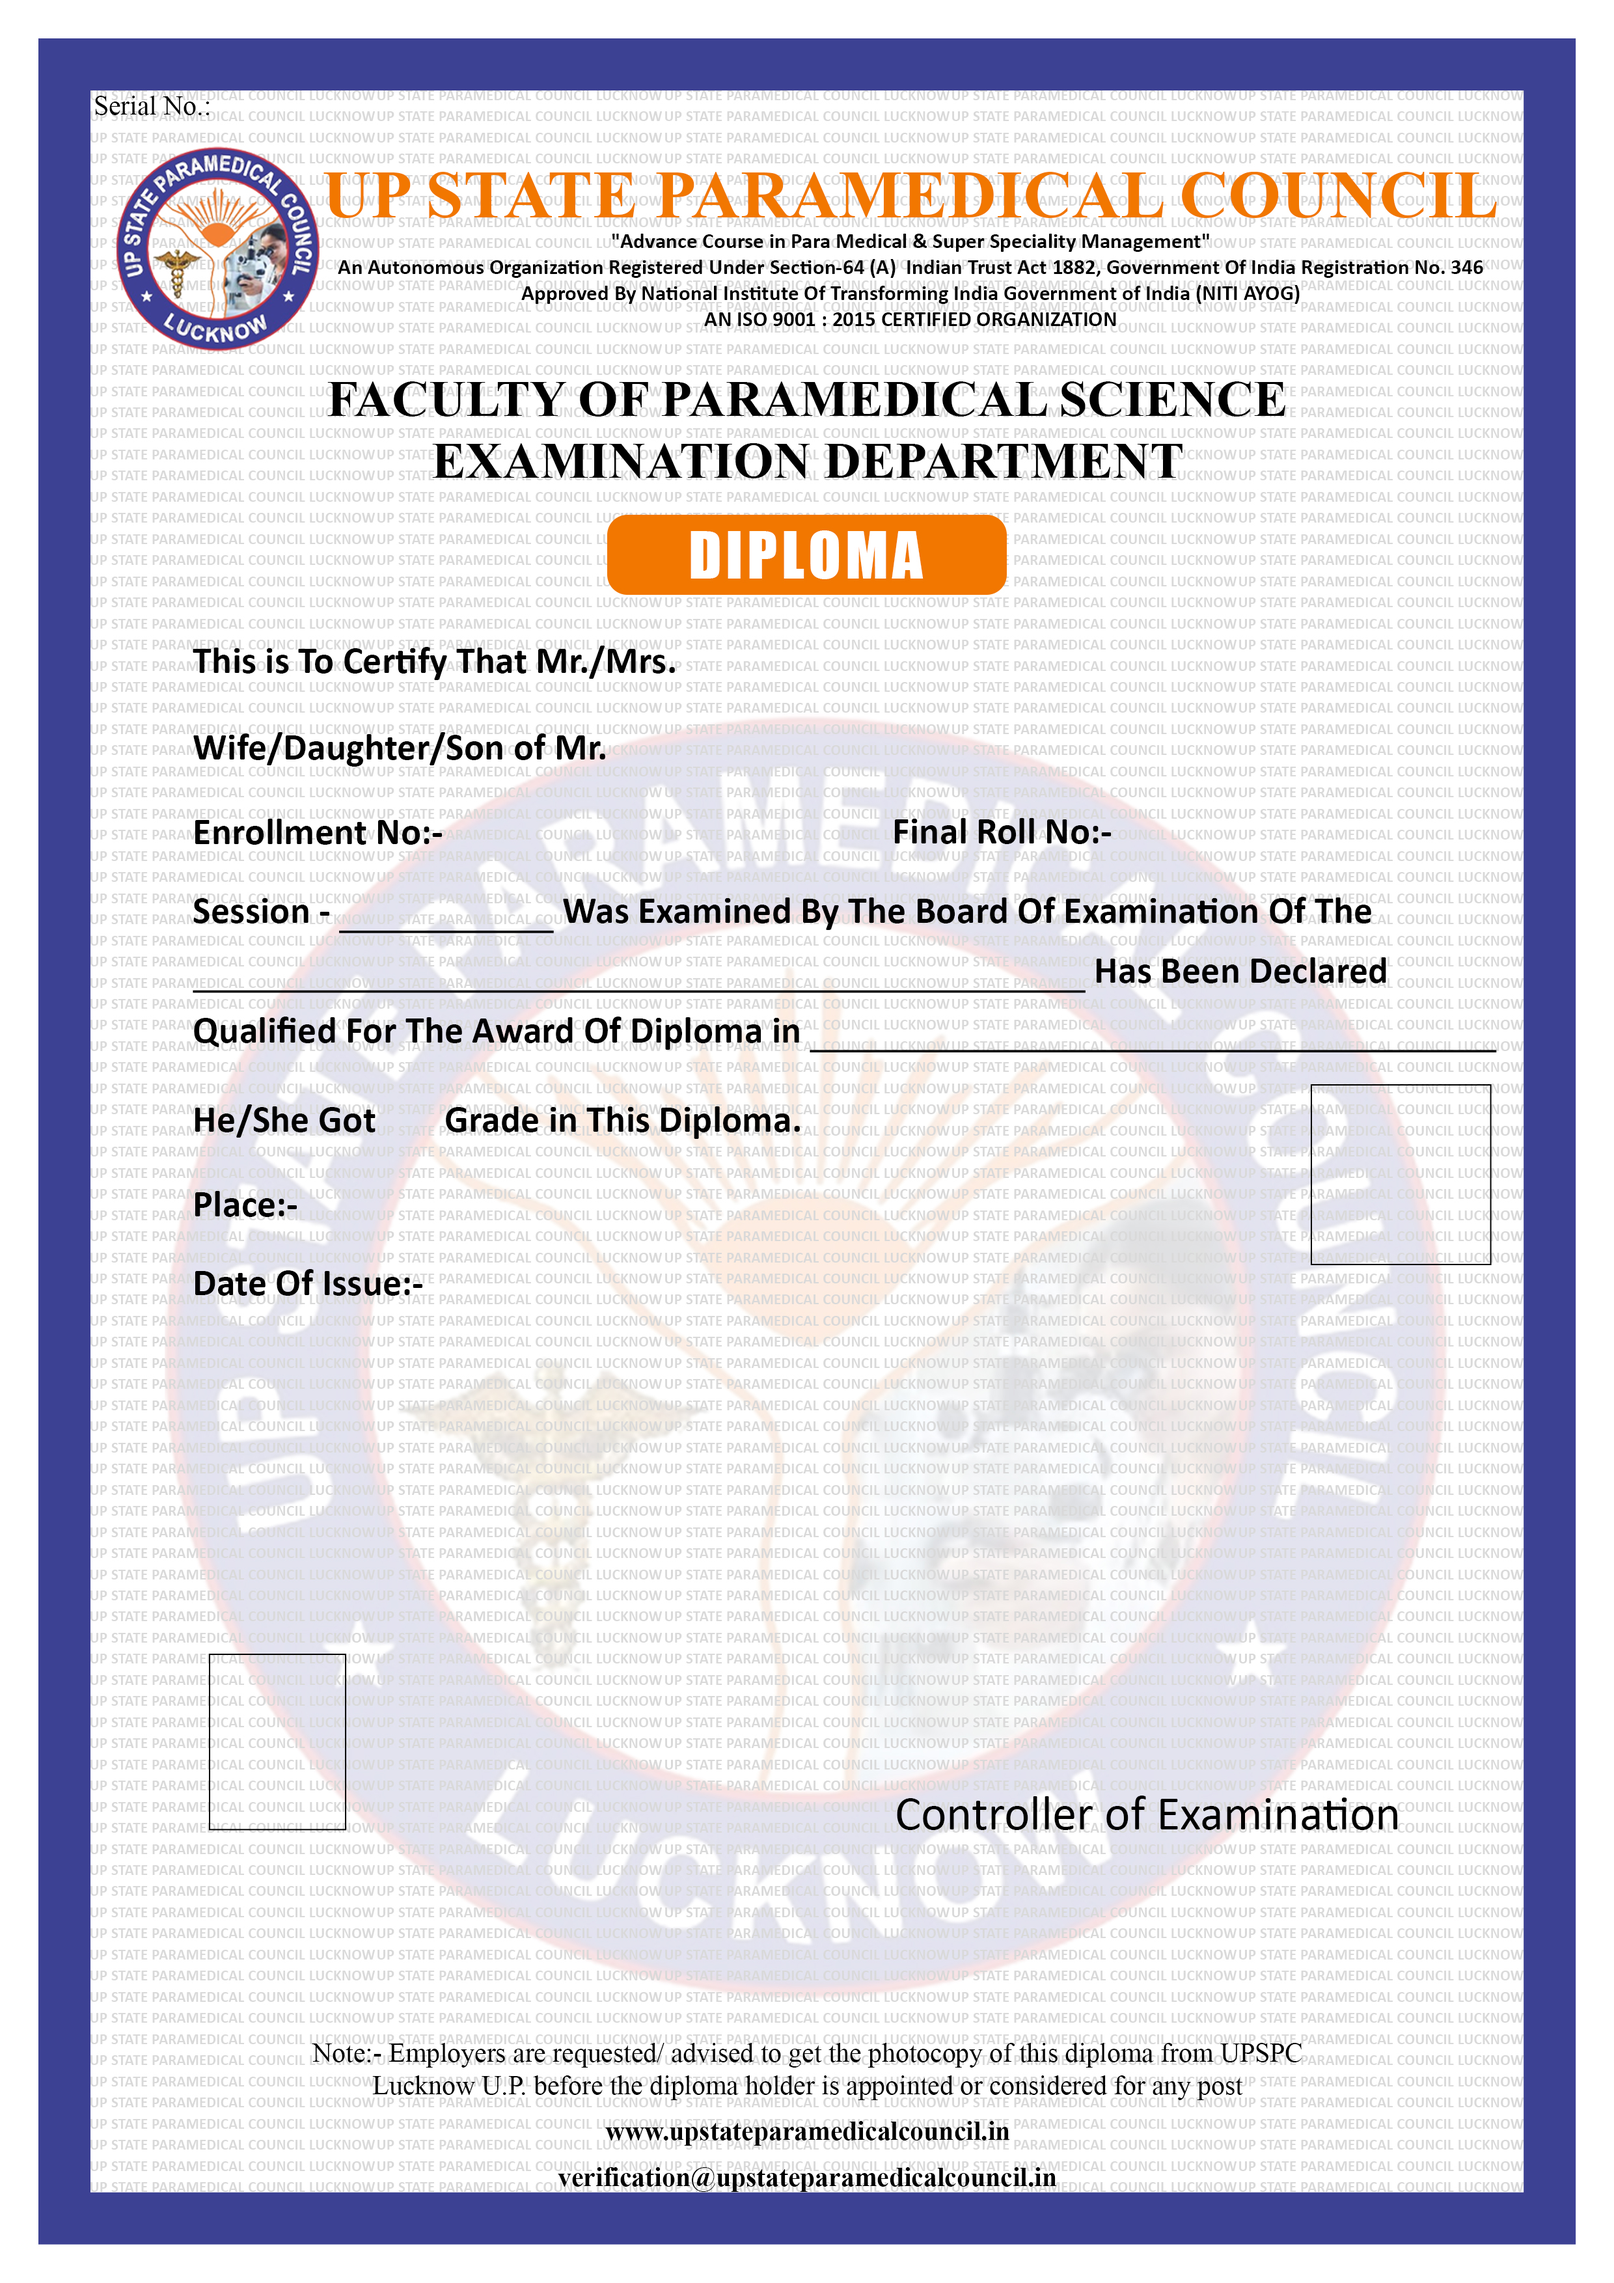
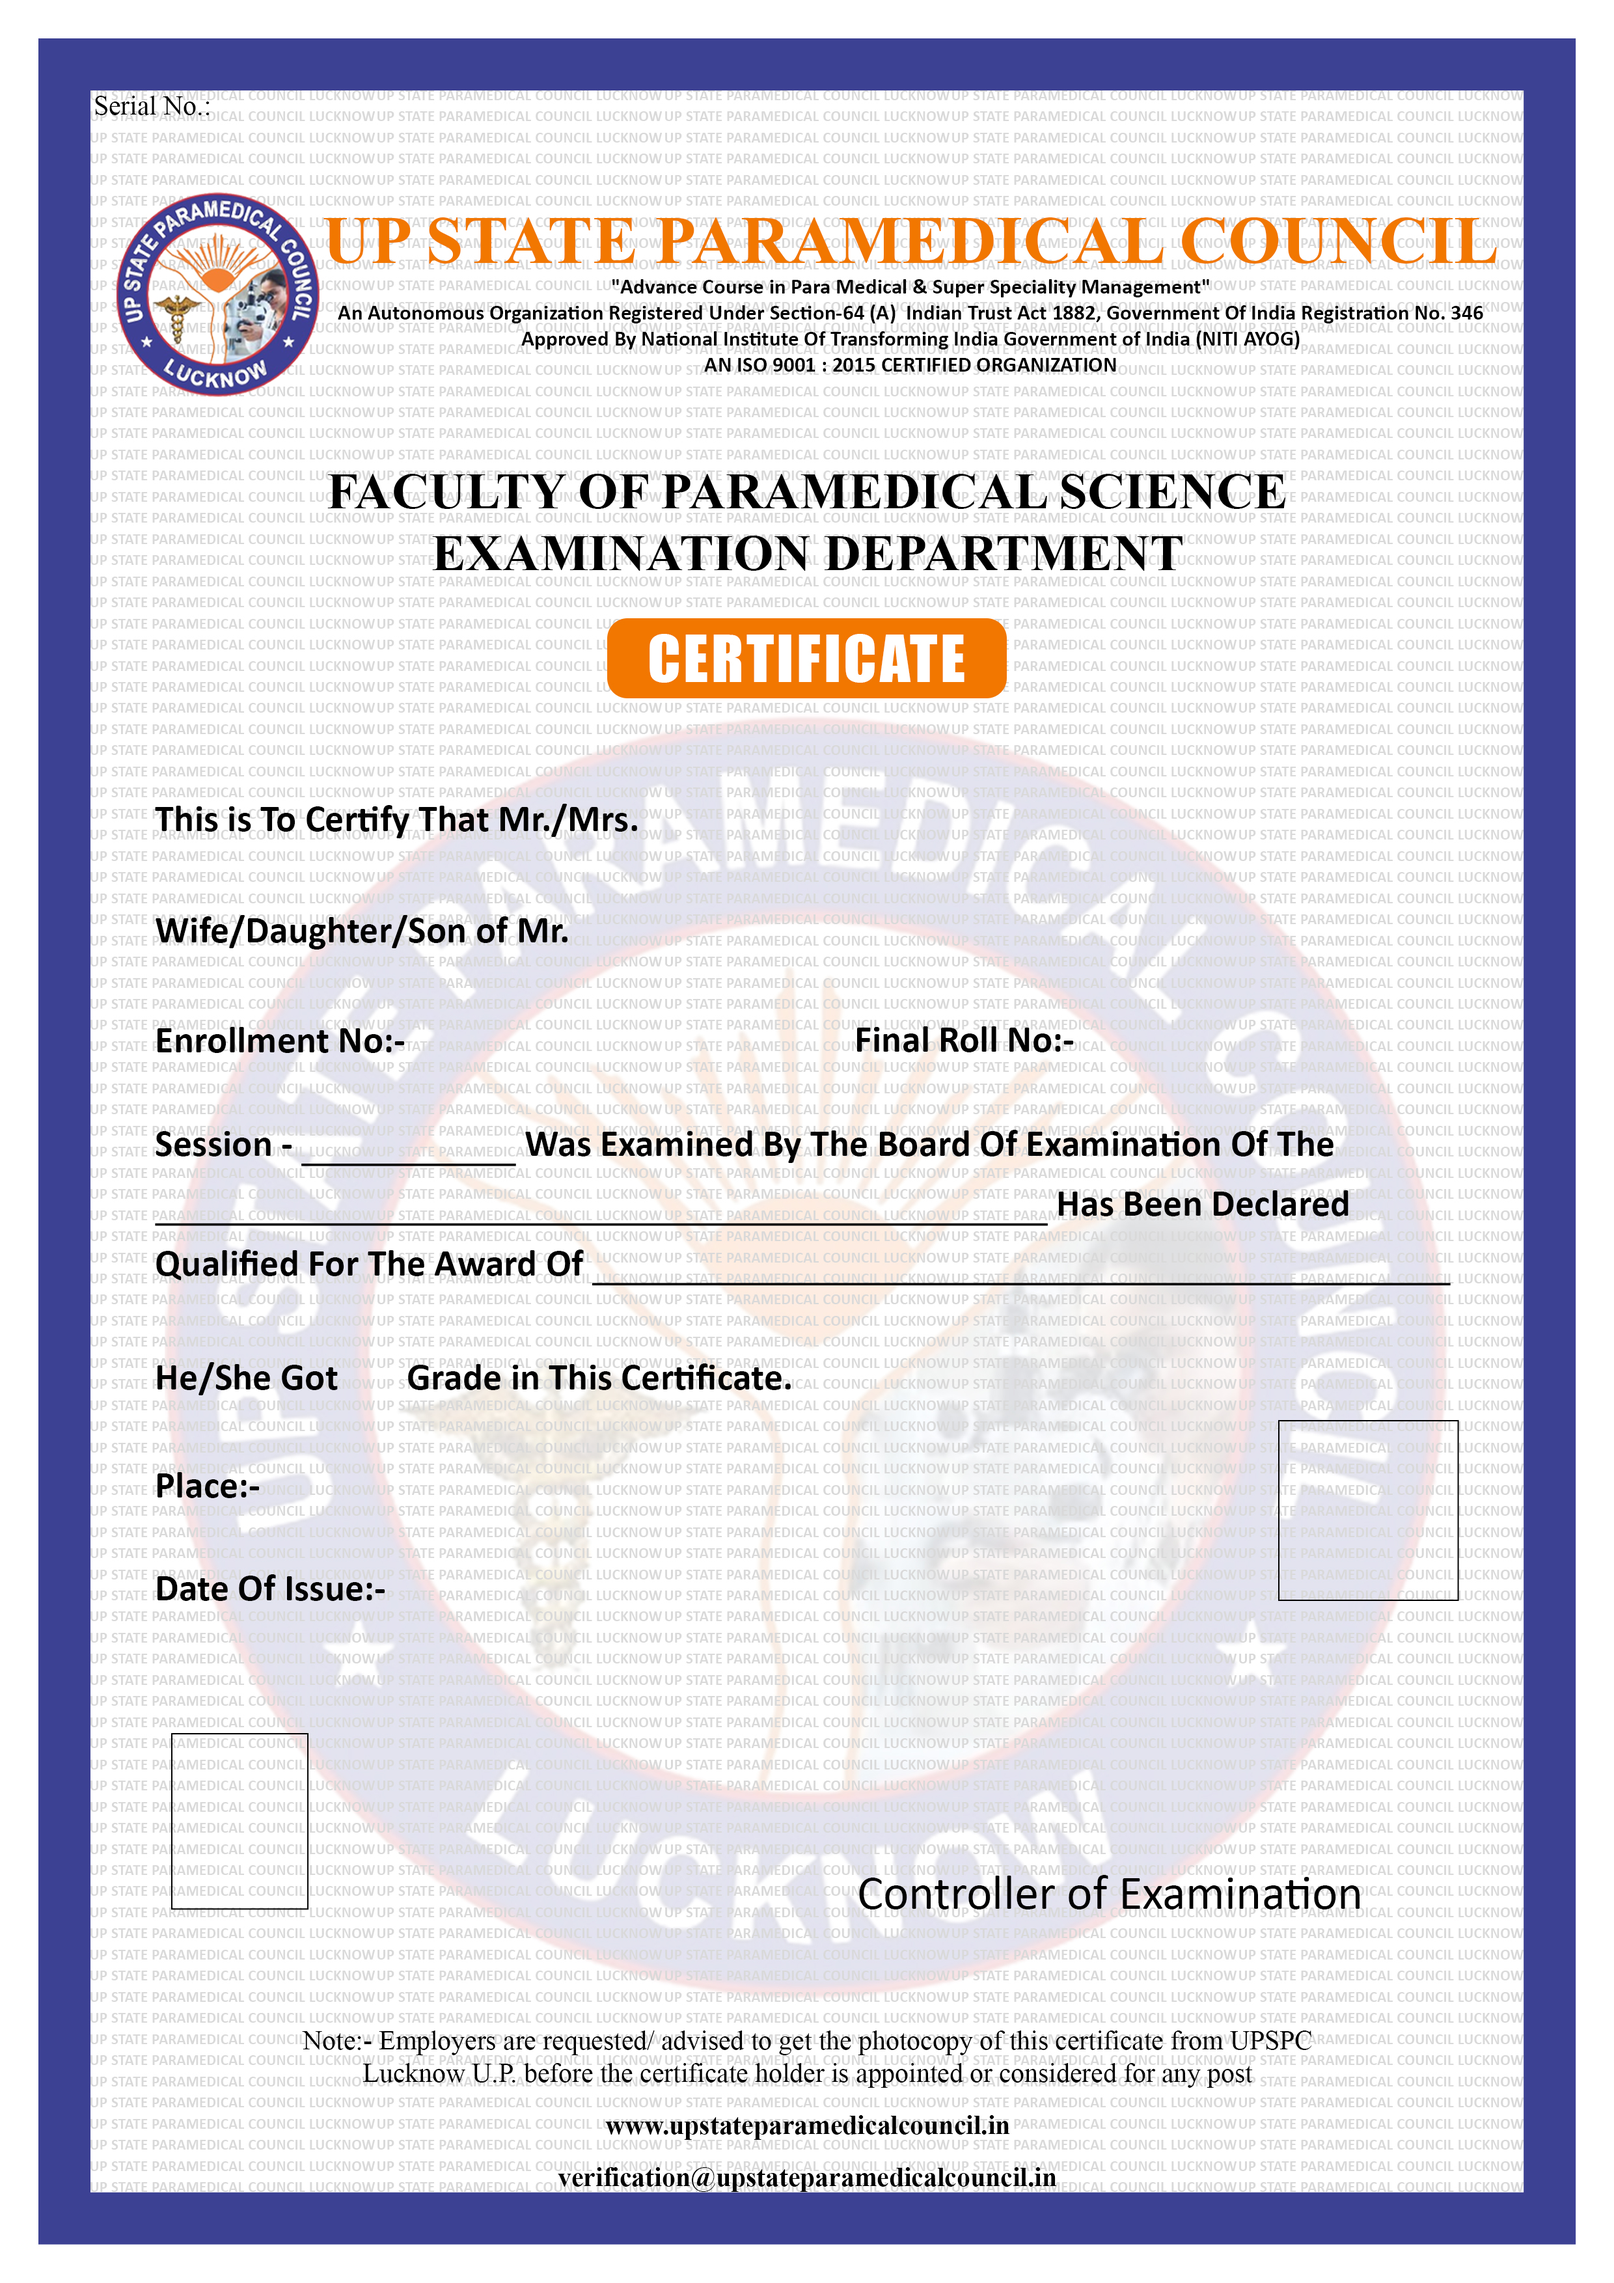
update

diff --git a/assets/formats/upstate/certificate.php b/assets/formats/upstate/certificate.php
@@ -38,18 +38,19 @@
 
         #photo {
             z-index: 999;
-            top: 72.35%;
-            left: 7.1rem;
+            top: 75.8%;
+            left: 10.75%;
         }
-        #photo1
-        {
-            top: 47%;
-            left: 80.5%;
+
+        #photo1 {
+            top: 61.7%;
+            left: 78.5%;
         }
-       
-        p{
+
+        p {
             font-weight: bold;
         }
+
         .middle-div {
             width: 60%;
             margin-left: 9rem;
@@ -57,61 +58,40 @@
             /* border:1px solid red; */
             font-weight: bold;
         }
-        .test{
-            border:1px solid red
+
+        .test {
+            border: 1px solid red
         }
-        .text-center{
-            text-align:center
+
+        .text-center {
+            text-align: center
         }
     </style>
 </head>
 
-<body class="position-relative">
-    <img id="back-image" class="position-relative" src="{document_path}/certificate.jpg">
+<body class="position-relative"><?php
+$certificate = ($duration_type == 'month' or ($duration_type == 'year' && $duration == 1)) ? 'certificate' : 'diploma';
+?>
+    <img id="back-image" class="position-relative" src="{document_path}/<?= $certificate ?>.jpg">
     <div class="position-absolute" id="photo">
-        <img src="upload/{image}" style="width: 64px;height: 83px;">
+        <img src="upload/{image}" style="width: 65px;height: 84px;">
     </div>
     <div class="position-absolute" id="photo1">
         <img src="upload/images/student_certificate_{certiticate_id}.png" style="width:96px;height:96px">
     </div>
-    <p class="position-absolute" style="top:34.2%;left:28%;width:210px">{roll_no}</p>
-    <p class="position-absolute " style="top:34%;left:70%;width:300px">{enrollment_no}</p>
+    <p class="position-absolute" style="top:43.2%;left:28%;width:210px">{roll_no}</p>
+    <p class="position-absolute " style="top:43.2%;left:70%;width:300px">{enrollment_no} 23</p>
     <p class="position-absolute" style="top:2.5%;font-size:12px;left:110px">{serial_no}</p>
-    <div class="position-absolute" style="top:28%;left:44%">{student_name}</div>
-    <div class="position-absolute" style="top:32%;left:40%">{father_name}</div>
-    <!-- <div class="position-absolute" style="top:49%;left:26%">{mother_name}</div> -->
-    <!-- <div class="position-absolute" style="top:49%;left:74%">{dob}</div> -->
-    <div class="position-absolute" style="top:44.2%;left:50%;width:350px">{course_name}</div>
-    <!-- <div class="position-absolute" style="top:54.85%;left:28%">{duration} {duration_type}</div> -->
-    <!-- <div class="position-absolute" style="top:54.85%;left:50%">{from_date}</div> -->
-    <!-- <div class="position-absolute" style="top:54.85%;left:70%">{to_date}</div> -->
-    <!-- <div class="position-absolute" style="top:57.85%;left:75%">{exam_conduct_date}</div> -->
+    <div class="position-absolute" style="top:35%;left:44%">{student_name}</div>
+    <div class="position-absolute" style="top:40%;left:40%">{father_name}</div>
+    <div class="position-absolute text-center" style="top:54%;left:37%;width:450px">{course_name}</div>
 
-    <div class="position-absolute text-center" style="top:41.5%;left:12%;width:440px">{center_name}</div>
+    <div class="position-absolute text-center " style="top:51.5%;left:9%;width:440px">{center_name}</div>
+    <div class="position-absolute" style="top:59.5%;left:22%;width:60px">{grade}</div>
 
-    <!-- <div class="position-absolute" style="top:63.83%;left:54%;width:100%">{obtain_total}</div> -->
-    <div class="position-absolute" style="top:48.1%;left:24%;width:60px">{grade}</div>
-
-    <div class="position-absolute" style="top:51.8%;left:20%">Lucknow</div>
-    <div class="position-absolute" style="top:39%;left:22.5%">{cert_session}</div>
-    <div class="position-absolute" style="top:55.3%;left:27%">{createdOn}</div>
-
-    <!-- <div class="position-absolute w-100" style="top:44.4%;padding-left:7px;z-index:9999">
-
-        <div class="middle-div">{student_name}</div>
-
-        <div class="middle-div" style="margin-top:2.7rem">{father_name}</div>
-        <div class="middle-div" style="margin-top:2.7rem">{roll_no}</div>
-        <div class="middle-div" style="margin-top:2.6rem">{course_name}</div>
-        <div class="middle-div" style="margin-top:2.95rem">{session}</div>
-        <div class="middle-div" style="margin-top:.8rem;margin-left:20rem">{duration} {duration_type}</div>
-
-        <div class="middle-div" style="margin-top:3rem;width:75%">{center_name}</div>
-
-
-
-    </div> -->
-    <!-- <p class="position-absolute" style="bottom:7.3%;left:12%">{createdOn}</p> -->
+    <div class="position-absolute" style="top:64.1%;left:18%">Lucknow</div>
+    <div class="position-absolute text-center" style="top:49%;left:18.5%;width:112px">{cert_session}</div>
+    <div class="position-absolute" style="top:68.6%;left:25%">{createdOn}</div>
 </body>
 
 </html>

diff --git a/assets/formats/upstate/migration_certificate.php b/assets/formats/upstate/migration_certificate.php
@@ -1,0 +1,119 @@
+<!DOCTYPE html>
+<html>
+
+<head>
+    <meta charset="utf-8">
+    <meta name="viewport" content="width=device-width, initial-scale=1" />
+    <title>{name} Admit Card</title>
+    <style>
+        * {
+            font-weight: bold;
+            /* text-transform: uppercase; */
+
+        }
+
+        .text-capitlize {
+            text-transform: uppercase;
+        }
+
+        .position-relative {
+            position: relative;
+        }
+
+        .position-absolute {
+            position: absolute;
+            font-weight: bold;
+        }
+
+        div.position-absolute {
+            font-size: 18px;
+        }
+
+        .w-100 {
+            width: 100%;
+            display: grid;
+        }
+
+        span {
+            font-weight: bold;
+            color: #1a4891;
+            font-size: 14px;
+            display: inline-block;
+        }
+
+        #photo {
+            z-index: 999;
+            top: 86.8%;
+            left: 47%;
+        }
+
+        #photo1 {
+            top: 33.2%;
+            left: 78.4%;
+        }
+
+        p {
+            font-weight: bold;
+        }
+
+        .middle-div {
+            width: 60%;
+            margin-left: 9rem;
+            text-align: center;
+            /* border:1px solid red; */
+            font-weight: bold;
+        }
+
+        .text-center {
+            text-align: center;
+        }
+
+        div {
+            /* text-transform: uppercase !important; */
+        }
+
+        .test {
+            border: 1px solid red
+        }
+
+        #center_signature {
+            z-index: 999;
+            bottom: 11%;
+            left: 65%;
+        }
+
+        .hindi-text {
+            font-size: 25pt !important;
+            font-family: "Noto Sans Devanagari", sans-serif;
+        }
+
+        .t-u {
+            /* text-transform: uppercase */
+        }
+    </style>
+</head>
+
+<body class="position-relative">
+    <img id="back-image" class="position-relative" src="{document_path}/migration-certificate.jpg">
+    <?php
+    $this->ki_theme->generate_qr($id, 'migration', current_url());
+    ?>
+    <div class="position-absolute" id="photo1">
+        <img src="upload/images/migration_{id}.png" style="width:92px;height:86px">
+    </div>
+
+    <p class="position-absolute t-u" style="top:30%;left:42%;width:350px">{name}</p>
+    <p class="position-absolute t-u" style="top:36.3%;left:30%;width:350px">{father_name}</p>
+    <p class="position-absolute " style="top:2.5%;left:13%;width:135px;font-size:12px">{sr_no}</p>
+    <!-- <p class="position-absolute" style="top:4%;left:70%;width:150px;text-align:center">{roll_no}</p> -->
+    <p class="position-absolute " style="top:42.8%;left:20%;width:580px;line-height:1">{institute_name}</p>
+    <p class="position-absolute t-u test" style="top:49%;left:25%;width:505px;line-height:1">{course_name}</p>
+    <p class="position-absolute t-u" style="top:54%;left:60%;width:305px;line-height:1">{course_category}</p>
+
+    <p class="position-absolute " style="top:86%;left:16%;width:135px;">{date}</p>
+   
+
+
+</body>
+
+</html>
